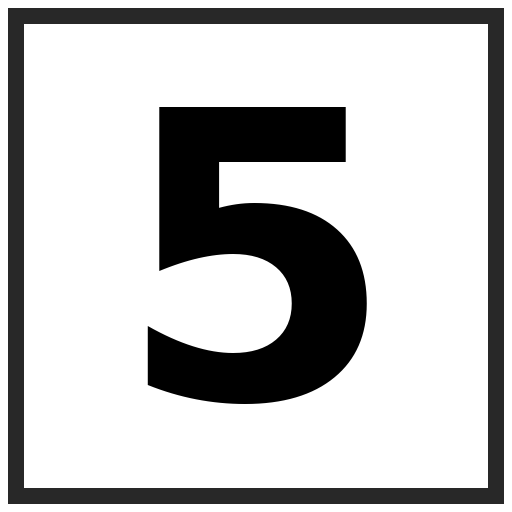
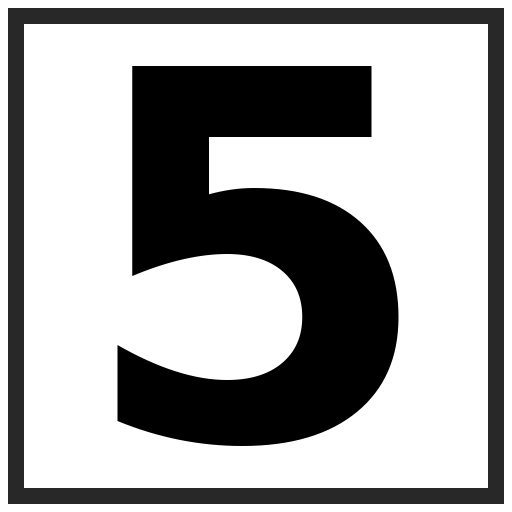
SeasonDish: bigger number card (0.30 m, the picture's size) and a 1.3x taller digit
Owner 2026-10-28 «сделай цифру побольше». Rendered from both head cameras at the
cue gaze on seeds 0-2: the card stays clear of the handle and readable.

Changed region(s): [[0.2188, 0.125, 0.7812, 0.875]]

diff --git a/my_scenes/season_dish.py b/my_scenes/season_dish.py
@@ -170,13 +170,14 @@ class SeasonDishConfig:
     now, perhaps up to 9 later; a card exists for every digit 1-9."""
     shake_out_deg: float = 20.0
     """Lean from straight down at which an armed shaker over the bowl counts one shake
-    (`utils/mikasa/shake_counter.py`). The oracle shakes +-30 deg of wrist roll."""
+    (`utils/mikasa/shake_counter.py`). The oracle swings the wrist roll 30 deg back toward upright."""
     shake_return_deg: float = 10.0
     """Lean from straight down the shaker must come back within before the next shake counts."""
-    digit_card_width: float = 0.20
+    digit_card_width: float = 0.30
     """Side of the square number card, metres (the condiment picture is `fridge_picture_width`).
     Rendered 2026-10-27 from both head cameras at the cue gaze: 0.15 was a ~10 px digit, 0.20 reads
-    on every seed tried."""
+    on every seed tried. 0.30, the picture's own size, with the digit drawn 1.3x taller on the card
+    (owner 2026-10-28 «сделай цифру побольше»)."""
     digit_card_side: str = "below"
     """Where the card hangs: 'below' or 'above' the picture. Below (2026-10-27): above, the resting
     arm covers part of the card in both head cameras; below, neither."""
@@ -417,7 +418,7 @@ class SeasonDishConfig:
 
         Example:
             >>> round(SeasonDishConfig().digit_card_offset(), 3)
-            -0.28
+            -0.33
         """
         reach = 0.5 * self.fridge_picture_width + self.digit_card_gap + 0.5 * self.digit_card_width
         return -reach if self.digit_card_side == "below" else reach

diff --git a/tools/make_digit_cards.py b/tools/make_digit_cards.py
@@ -23,7 +23,7 @@ def card(digit: int) -> Image.Image:
     border = SIZE // 32
     draw.rectangle([border // 2, border // 2, SIZE - 1 - border // 2, SIZE - 1 - border // 2],
                    outline=(40, 40, 40), width=border)
-    font = ImageFont.truetype(str(FONT), int(SIZE * 0.78))
+    font = ImageFont.truetype(str(FONT), int(SIZE * 1.0))
     left, top, right, bottom = draw.textbbox((0, 0), str(digit), font=font)
     x = (SIZE - (right - left)) / 2 - left
     y = (SIZE - (bottom - top)) / 2 - top
